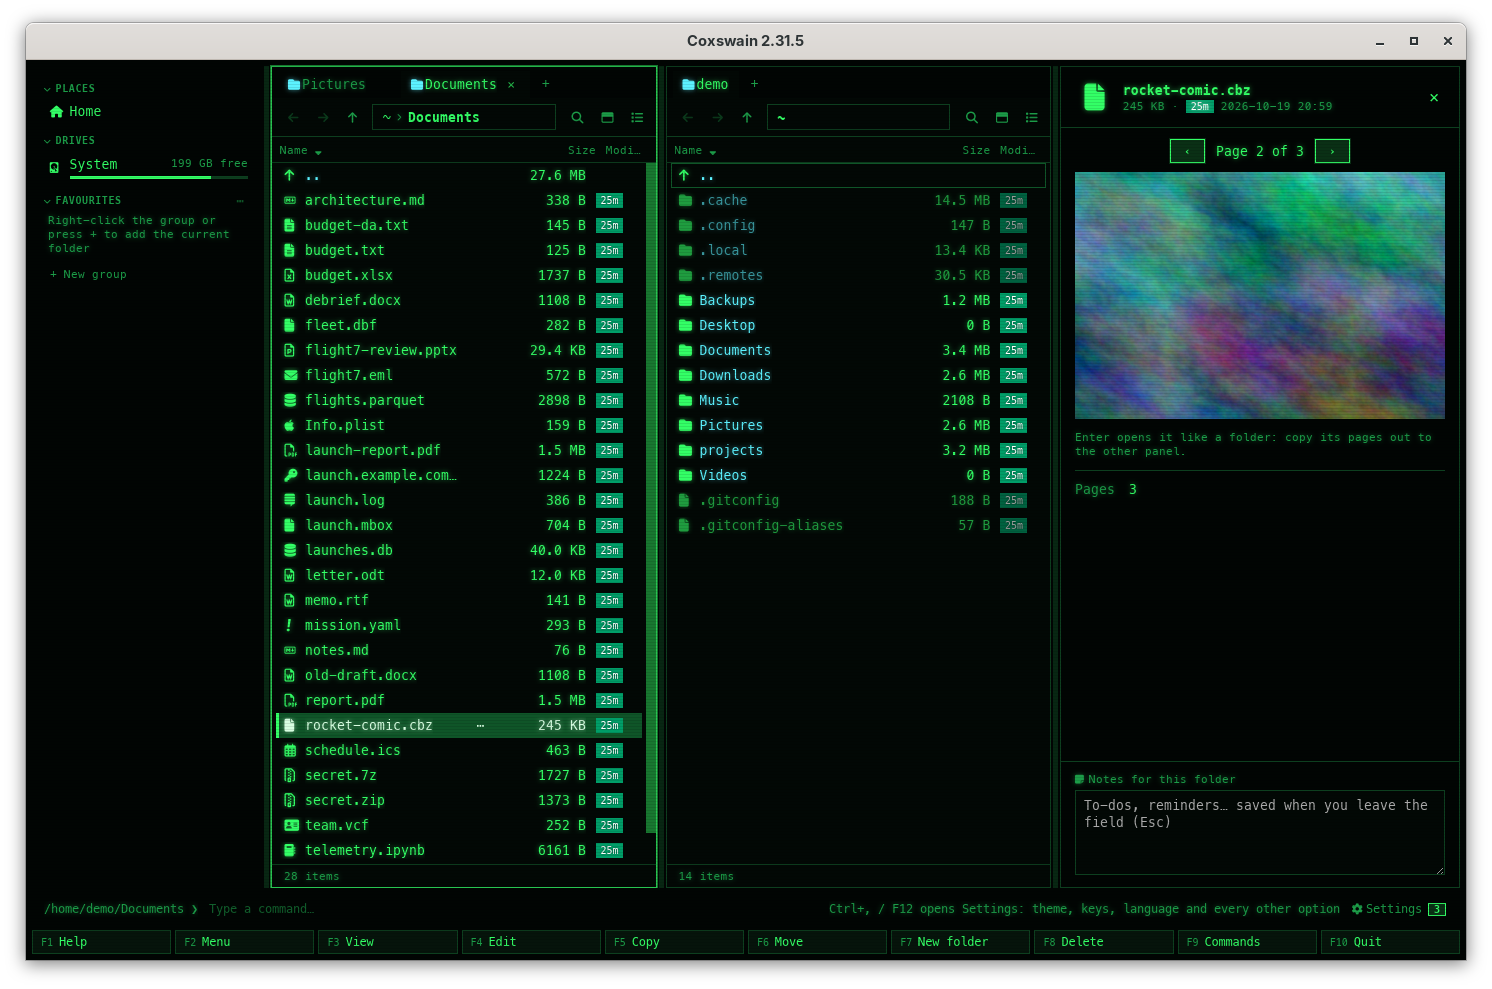
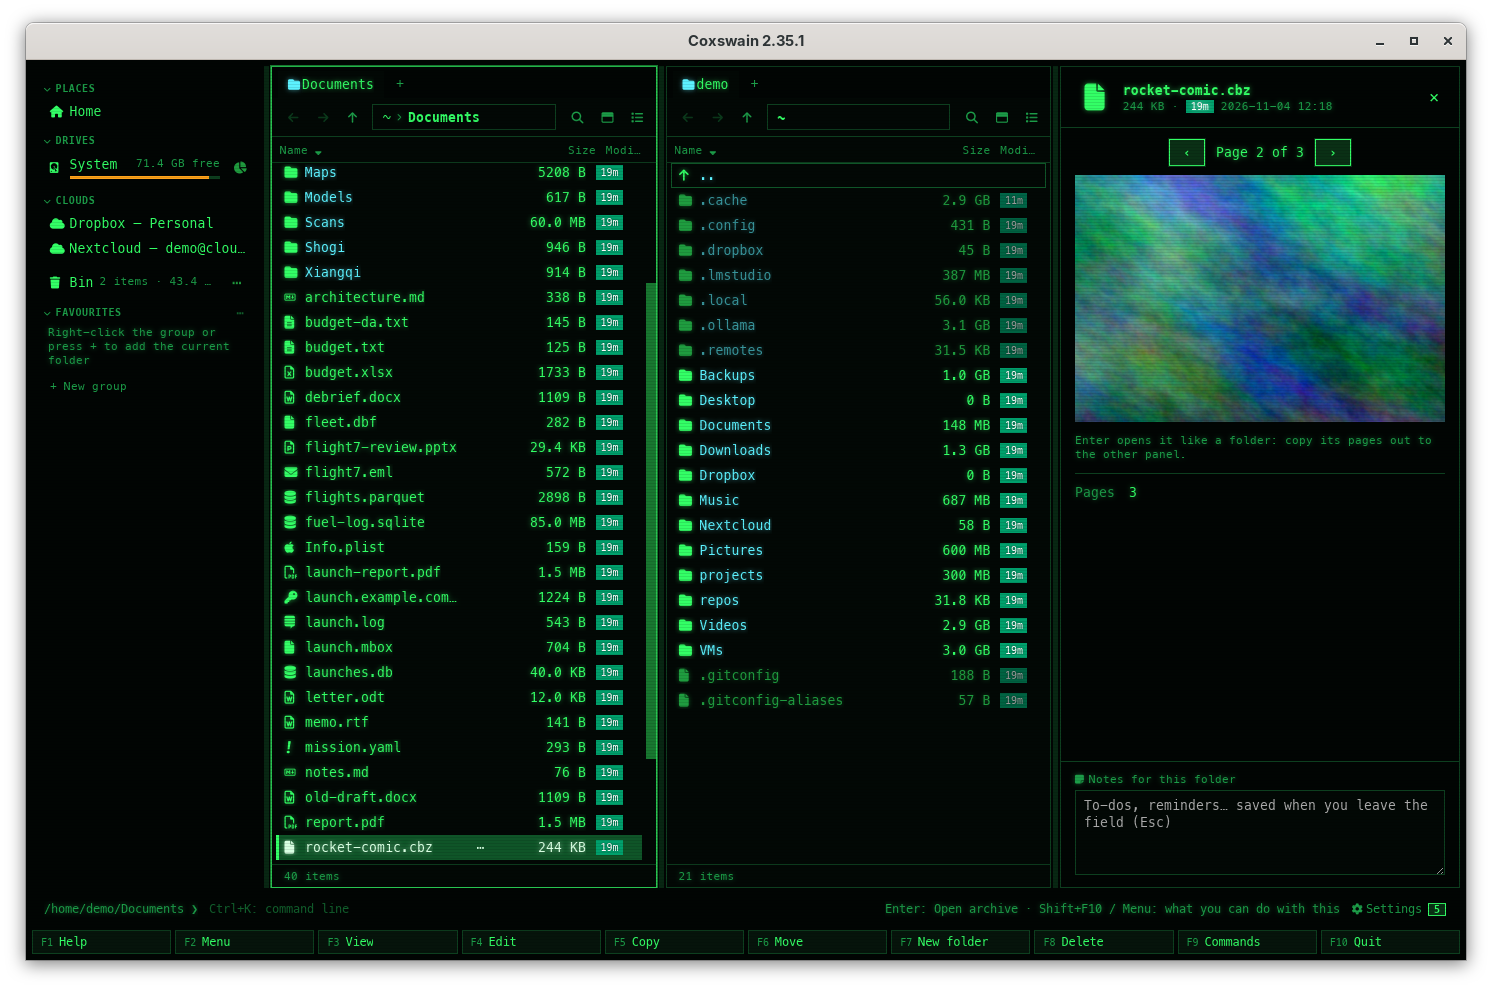
Preview: accent buttons at the app's text size and the accent's weight, so their text reads cleanly (#855)
* Preview: accent buttons at the app's text size and the accent's weight, so their text reads cleanly

* Pictures: the comic's page buttons and the draw.io preview retaken with the new accent buttons

Claude-Session: https://claude.ai/code/session_01No2cVNi1xnSzsVJBV4FW2T

diff --git a/gui/src/Preview.svelte b/gui/src/Preview.svelte
@@ -1701,11 +1701,16 @@
     color: var(--cursor-fg);
     border-color: transparent;
   }
-  .engines button:disabled {
+  .engines button:disabled,
+  .render:disabled {
     opacity: 0.45;
     cursor: default;
   }
   .render {
+    /* the app's own size and the accent's weight, like .primary (looks.css), even inside a .more
+       line: dark text on the accent smeared at 0.85em */
+    font-size: var(--font-size, 13px);
+    font-weight: var(--accent-weight);
     background: var(--accent-bg);
     color: var(--accent-fg);
     border-color: transparent;

diff --git a/changelog.d/fix-preview-accent-text.md b/changelog.d/fix-preview-accent-text.md
@@ -1,0 +1,1 @@
+| **The accent buttons under a preview read cleanly.** *Render*, *Settings…*, *Download* and the page buttons now use the app's own text size, and semibold in a dark theme like the other accent buttons, instead of small regular letters, where the dark text on the accent colour looked smeared. | [The preview pane](previews/README.md#what-the-pane-shows) |
